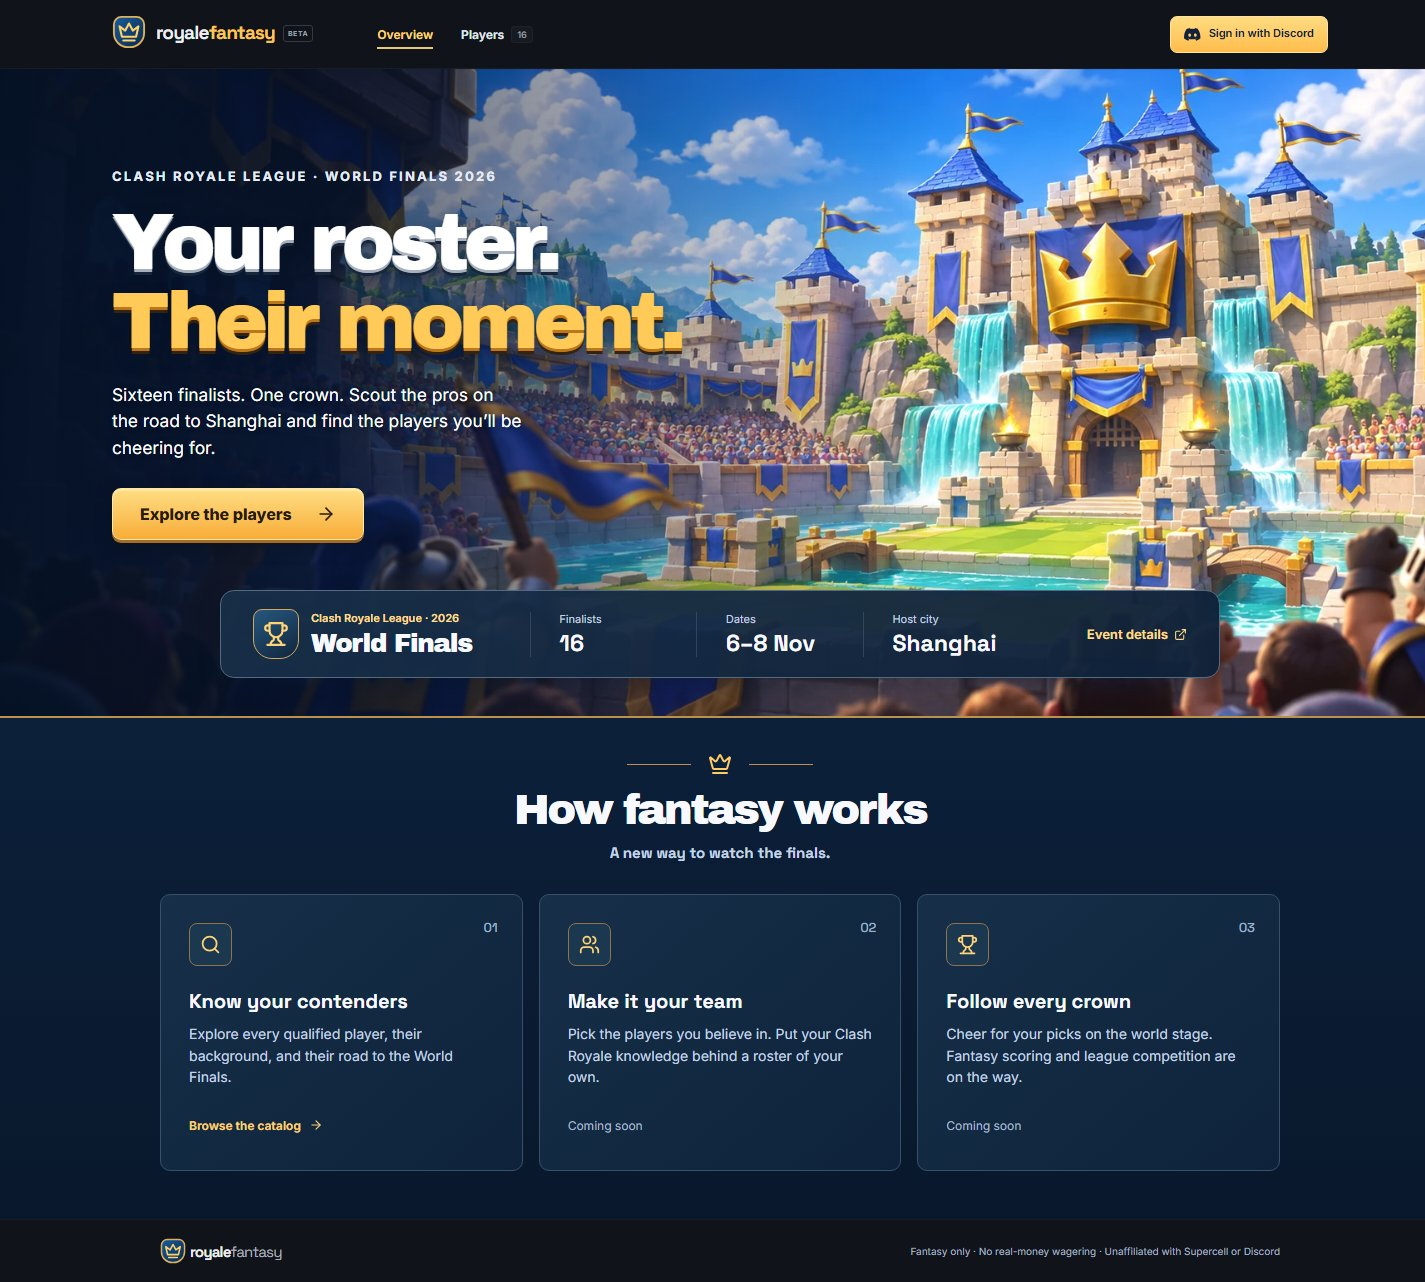
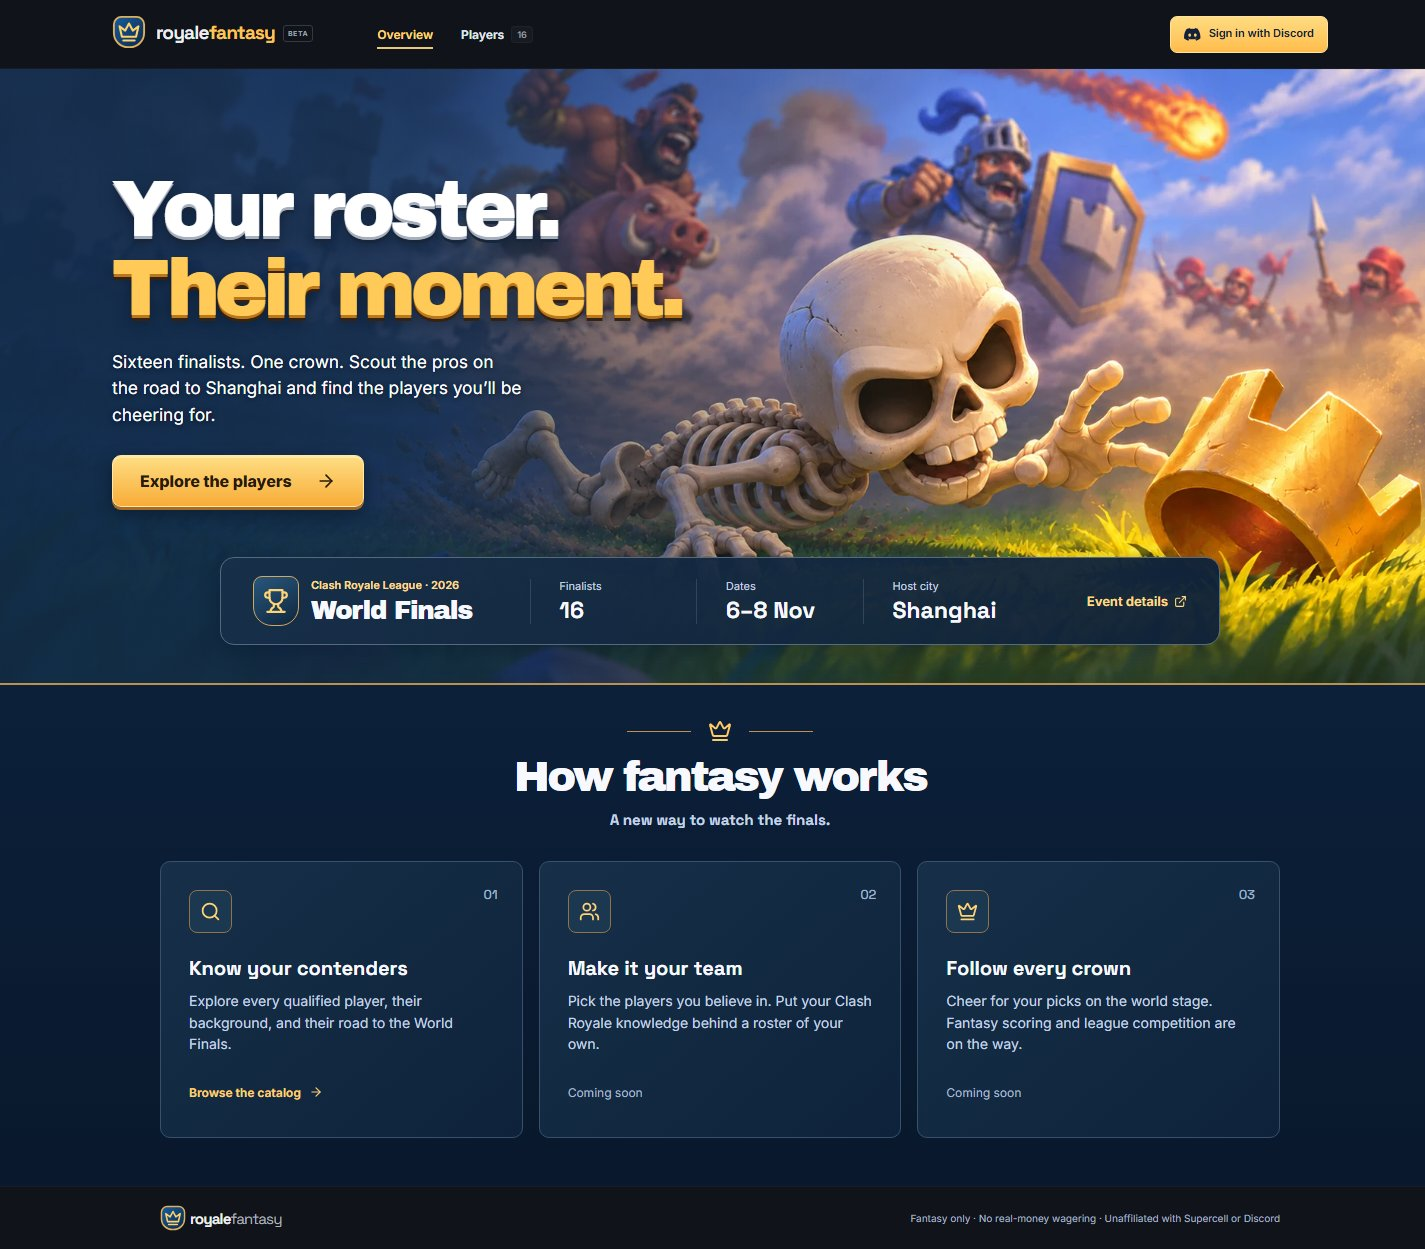
Give Overview, Players, and sign-in distinct artwork and refine catalog spacing

diff --git a/frontend/src/styles.css b/frontend/src/styles.css
@@ -502,12 +502,12 @@ main {
   color: #f3f6fc;
 }
 .catalog-banner {
-  background: linear-gradient(90deg, #07192ff2 8%, #091c35df 32%, #0923454a 68%, #071a3315),
-    url("/royal-arena.webp") center 40% / cover;
+  --catalog-art: url("/players-blue-king.webp");
+  background: linear-gradient(90deg, #09172c 32%, transparent 65%),
+    var(--catalog-art) right center / auto 100% no-repeat #09172c;
   border-bottom: 2px solid #b99152;
 }
 .catalog-banner .container { padding-block: clamp(36px, 4.2vw, 66px); }
-.catalog-banner .arena-eyebrow { margin-bottom: 10px; color: #ffe3a7; }
 .catalog-banner h1 {
   margin: 0 0 12px;
   font: 400 clamp(40px, 5.1vw, 75px)/1.06 "Archivo Black", sans-serif;
@@ -522,7 +522,7 @@ main {
   font-size: 15px;
   line-height: 1.55;
 }
-.catalog-field { padding-block: 28px 48px; }
+.catalog-field { padding-block: 28px 12px; }
 
 .catalog-toolbar {
   display: flex;
@@ -741,8 +741,8 @@ main {
   align-items: start;
   gap: 10px;
   border-top: 1px solid var(--line);
-  padding-top: 22px;
-  margin-top: 30px;
+  padding-top: 12px;
+  margin-top: 16px;
   color: #8a94a4;
   font-size: 10px;
   line-height: 1.8;
@@ -752,7 +752,7 @@ main {
   color: #7c8593;
 }
 .catalog-source-note p {
-  margin-bottom: 6px;
+  margin: 0;
 }
 .catalog-source-note .external-link {
   color: #bdad81;
@@ -848,8 +848,9 @@ main {
   flex: 1;
   display: grid;
   align-items: center;
-  background: linear-gradient(90deg, #071529df, #0c203688 45%, #0c20361a 82%),
-    url("/royal-arena.webp") center / cover;
+  --gate-art: url("/sign-in-guard.webp");
+  background: linear-gradient(90deg, #07152987, #0c203647 48%, transparent 78%),
+    var(--gate-art) right center / cover no-repeat #10243a;
 }
 main:has(> .login-page) { display: flex; }
 .login-layout {
@@ -926,9 +927,12 @@ main:has(> .login-page) { display: flex; }
 .login-card .session-notice { justify-content: center; align-items: center; flex-wrap: wrap; gap: 3px 10px; }
 @media (max-width: 740px) {
   .login-page {
-    background: linear-gradient(0deg, #091c30ef, #10283d40 75%), url("/royal-arena.webp") 70% center / cover;
+    --gate-height: clamp(170px, 42vw, 230px);
+    background-image: linear-gradient(to bottom, transparent calc(var(--gate-height) * .76), #10243a var(--gate-height)), var(--gate-art);
+    background-size: 100% 100%, max(100%, calc(var(--gate-height) * 1.78)) auto;
+    background-position: center top, right 0 top 0;
   }
-  .login-layout { padding: 32px 16px; }
+  .login-layout { padding: var(--gate-height) 16px 32px; }
 }
 .not-found {
   text-align: center;
@@ -1010,10 +1014,12 @@ main:has(> .login-page) { display: flex; }
     display: none;
   }
   .catalog-banner {
-    background-image: linear-gradient(90deg, #071a32f2, #071a32bd 64%, #071a3259), url("/royal-arena.webp");
-    background-position: 65% center;
+    --catalog-art-height: clamp(145px, 31vw, 190px);
+    background-image: linear-gradient(to bottom, transparent calc(var(--catalog-art-height) - 35px), #09172c var(--catalog-art-height)), var(--catalog-art);
+    background-size: 100% 100%, auto var(--catalog-art-height);
+    background-position: center top, right top;
   }
-  .catalog-banner .container { padding-block: 32px; }
+  .catalog-banner .container { padding-block: var(--catalog-art-height) 24px; }
   .catalog-banner p:last-child { max-width: 310px; }
   .catalog-toolbar {
     flex-wrap: wrap;

diff --git a/frontend/src/App.tsx b/frontend/src/App.tsx
@@ -179,7 +179,6 @@ function Home() {
     <>
       <section className="arena-hero" aria-labelledby="arena-title">
         <div className="arena-inner">
-          <p className="arena-eyebrow">Clash Royale League · World Finals 2026</p>
           <h1 id="arena-title">Your roster. <br /><span>Their moment.</span></h1>
           <p className="arena-intro">
             Sixteen finalists. One crown. Scout the pros on the road to Shanghai
@@ -242,7 +241,7 @@ function Home() {
             </article>
             <article>
               <span className="step-icon">
-                <Trophy size={21} aria-hidden="true" />
+                <Crown size={21} aria-hidden="true" />
               </span>
               <span className="step-number">03</span>
               <h3>Follow every crown</h3>
@@ -322,7 +321,6 @@ function Catalog() {
     <div className="catalog-page">
       <header className="catalog-banner">
         <div className="container">
-          <p className="arena-eyebrow">CRL World Finals · Shanghai 2026</p>
           <h1>Meet the <span>finalists.</span></h1>
           <p>Explore the players and discover how they earned their place in the arena.</p>
         </div>
@@ -385,11 +383,6 @@ function Catalog() {
               Roster and player biographies sourced from{" "}
               <ExternalAnchor href={rosterSource}>Liquipedia</ExternalAnchor> ·
               Checked {verifiedDate}.
-            </p>
-            <p>
-              This is a manually curated snapshot, not a live feed. Verified
-              profile images are shown where available; otherwise, players have a
-              monogram. Image credits and individual sources are in each profile.
             </p>
           </div>
         </aside>

diff --git a/frontend/src/arena.css b/frontend/src/arena.css
@@ -26,8 +26,9 @@
 .arena-hero {
   color: white;
   background-color: #122943;
-  background-image: linear-gradient(90deg, #041225cc, #06152e8a 31%, transparent 65%), url("/royal-arena.webp");
-  background-position: center;
+  --overview-art: url("/overview-larry.webp");
+  background-image: linear-gradient(90deg, #102b48ca, #112d49b8 28%, #112d4933 52%, transparent 68%), var(--overview-art);
+  background-position: center, right center;
   background-size: cover;
   border-bottom: 2px solid #bc914e;
   padding-bottom: clamp(20px, 3vw, 38px);
@@ -36,14 +37,6 @@
   max-width: 1296px;
   margin-inline: auto;
   padding: clamp(72px, 6.9vw, 114px) 40px clamp(28px, 3.5vw, 52px);
-}
-.arena-eyebrow {
-  margin: 0 0 17px;
-  font-size: clamp(10px, .9vw, 13px);
-  font-weight: 750;
-  letter-spacing: .17em;
-  text-transform: uppercase;
-  color: #e4ecf8;
 }
 .arena-hero h1, #guide-title {
   font-family: "Archivo Black", "Inter Variable", sans-serif;
@@ -220,8 +213,12 @@
     padding: 185px 22px 40px;
   }
   .arena-hero {
-    background-image: linear-gradient(0deg, #07162b6b, #07162bd6 31%, #07162bcc 55%, #07162b15 82%), url("/royal-arena.webp");
-    background-position: 70% center;
+    --art-height: clamp(230px, 52vw, 350px);
+    background-color: #10253a;
+    background-image: linear-gradient(to bottom, transparent 100px, #10253ab8 182px, #10253a var(--art-height)), var(--overview-art);
+    background-position: center top, right top;
+    background-size: 100% 100%, auto var(--art-height);
+    background-repeat: no-repeat;
   }
   .arena-hero h1 { font-size: clamp(42px, 9.5vw, 65px); }
   .arena-intro { margin: 16px 0 21px; max-width: 380px; }

diff --git a/frontend/README.md b/frontend/README.md
@@ -93,6 +93,6 @@ Design references RoyaleTools' compact tool-oriented navigation and card layouts
 
 Review the current homepage at [desktop width](docs/design/home-desktop.jpg) and [mobile width](docs/design/home-mobile.jpg).
 
-The arena illustration places the World Finals setting on the right and reserves the shaded grandstand for the headline. On narrow screens the castle sits above the text. The gold primary action opens the public player catalog. The guide below it distinguishes scouting features from planned drafting and scoring.
+Larry reaches for a gold crown on the homepage. The gold primary action opens the player catalog, where the Blue King chooses a card. On the sign-in page, a Royal Guard opens the gate. On narrow screens the artwork sits above the page title or sign-in form.
 
-The home palette pairs navy (#091C35) with crown gold (#FFCA57). Local Archivo Black sets the main headings, Inter sets body copy, and Space Grotesk sets supporting headings. The original arena illustration was generated with ImageGen and optimized as `public/royal-arena.webp`. Archivo Black and its SIL Open Font License are in `public/fonts/`.
+The home palette pairs navy (#091C35) with crown gold (#FFCA57). Local Archivo Black sets the main headings, Inter sets body copy, and Space Grotesk sets supporting headings. The three illustrations were generated with ImageGen and are served as WebP files from `public/`. Archivo Black and its SIL Open Font License are in `public/fonts/`.
